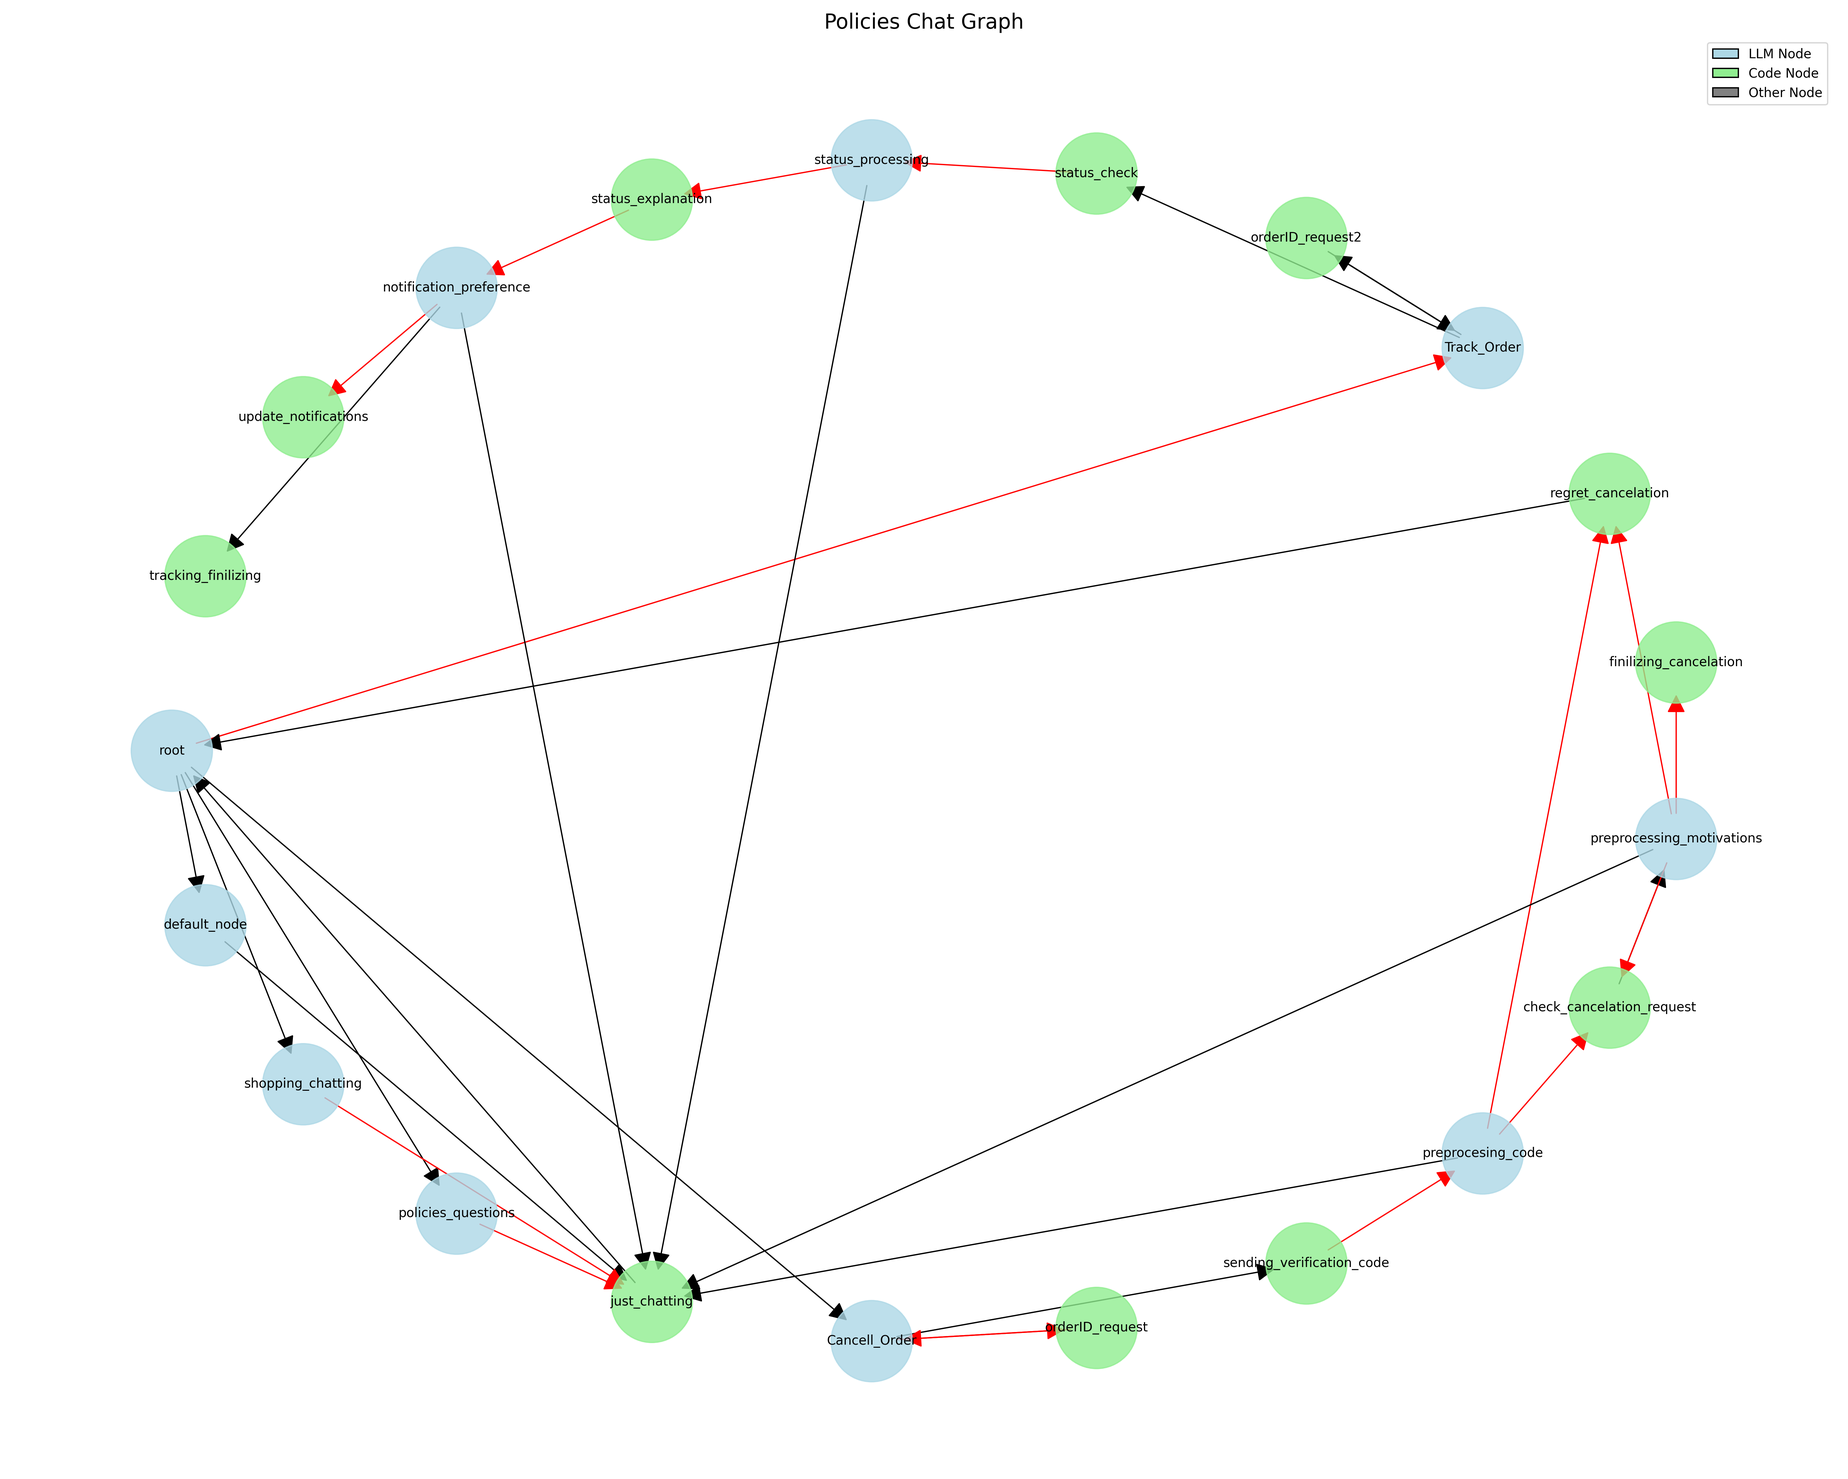
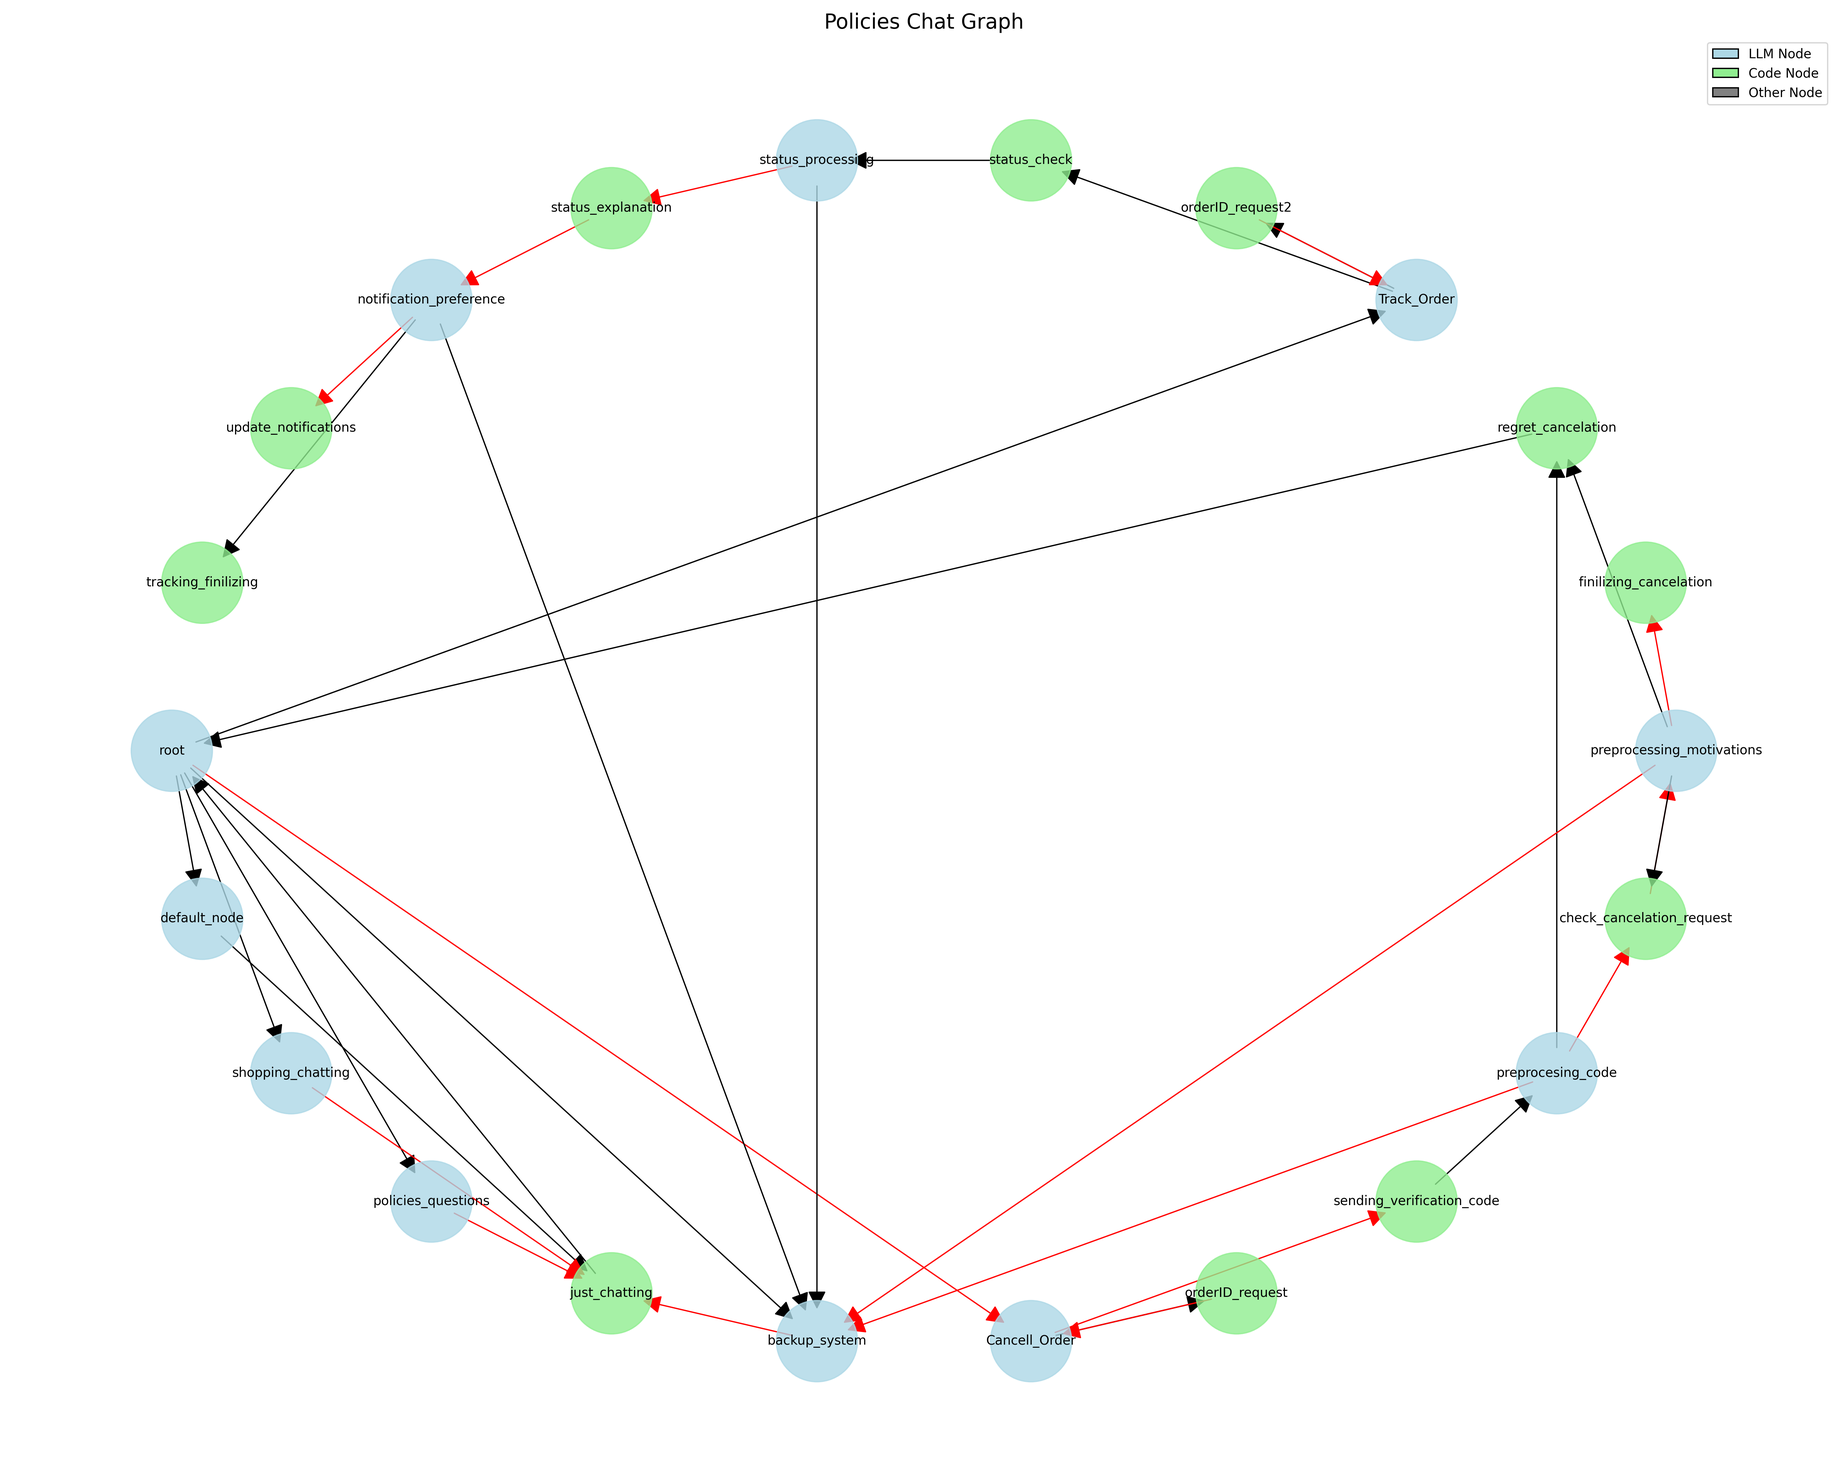
Make backup system most robust and general (restricting backup_system naming) and just chatting loops improvements

diff --git a/services/chat/policies_chat.py b/services/chat/policies_chat.py
@@ -38,13 +38,36 @@ default_parameters = {"user_message": {
                       }}
 
 default_node = LLM_Node(name="default_node", 
-                     description="General purpose conversation handler for non-specific queries", 
+                     description="Conversation guide for unclear requests or off-topic queries", 
                      parameters=default_parameters,
-                     template= """Respond helpfully to the user's general query. Keep your response friendly, concise, and informative. If the query seems to be about products or company policies, indicate this might not be the most specific response path.
+                     template= """Handle this user request by determining the appropriate action:
 
-If the user seems frustrated, confused, or their request can't be addressed through normal pipelines, route them to the just_chatting node.
+USER MESSAGE: "{user_message}"
 
-User message: {user_message}""",
+GUIDELINES:
+1. COMPANY FOCUS: Our chat exists to assist with product information, order management, returns, cancellations, and company policies.
+
+2. DETERMINE REQUEST TYPE:
+   - If about products/orders → Suggest shopping_chatting node
+   - If about policies → Suggest policies_questions node
+   - If about order cancellation → Suggest Cancell_Order node
+   - If genuinely unclear → Ask clarifying questions about their needs related to our services
+
+3. OFF-TOPIC HANDLING:
+   - For completely unrelated topics, politely redirect to our purpose
+   - After 2+ attempts, suggest alternative contact methods:
+     * Customer Service: 1-800-555-1234
+     * Email: support@techstream.com
+     * Store Locator: www.techstream.com/stores
+
+4. RESPONSE STRUCTURE:
+   - Be friendly but focused
+   - Keep responses under 100 words
+   - Provide 1-2 concrete examples of how we can help
+   - For repeat unclear requests, gradually introduce alternative contact methods
+
+Your goal is to guide the conversation toward productive company-related topics without appearing dismissive.
+""",
                      model = "gpt-4.1")
 Chat_Bot_ToT.conect_node_to_node(from_name="root", to_Node=default_node)
 
@@ -54,18 +77,13 @@ shopping_chatting_node = LLM_Node(name="shopping_chatting",
                      parameters=default_parameters,
                      template= """Respond to the user's product or shopping-related query using retrieved product information. Provide specific details about:
 
-1. Product features, specifications, and availability
-2. Pricing information and current promotions
-3. Product comparisons when relevant
-4. Ordering assistance and recommendations
-
 If the user seems frustrated or their request cannot be properly addressed with product information alone, route them to the just_chatting node.
 
 You can't process sales, if user express interest on buying a product  induce they to visit web, shop or call.
 
 User message: {user_message}""",
                      model = "gpt-4.1",
-                     retriver=shop_rag.get_retriver())
+                     retriver=shop_rag.get_retriver(request_type="similarity",top_k=4, score_threshold=0.6))
 Chat_Bot_ToT.conect_node_to_node(from_name="root", to_Node=shopping_chatting_node)
 
 ###--- Node ---###
@@ -74,19 +92,13 @@ policies_questions_node = LLM_Node(name="policies_questions",
                      parameters=default_parameters,
                      template= """Respond to the user's query about company policies using retrieved policy information. Address questions regarding:
 
-1. Return and exchange policies
-2. Shipping and delivery information
-3. Warranty and guarantee details
-4. Payment and pricing policies
-5. Customer account management
-
 Provide clear, accurate information based on official company policies. If the policy information is ambiguous or the user request falls outside standard policies, indicate this.
 
-If the user seems frustrated, confused, or their request requires special handling beyond standard policy responses, route them to the just_chatting node.
+If the user seems frustrated, confused, or their request requires special handling beyond standard policy responses, advice him to contact the call center and/or visit the store.
 
 User message: {user_message}""",
                      model = "gpt-4.1",
-                     retriver=policy_rag.get_retriver())
+                     retriver=policy_rag.get_retriver(request_type="similarity",top_k=3, score_threshold=0.6))
 Chat_Bot_ToT.conect_node_to_node(from_name="root", to_Node=policies_questions_node)
 
 ###--- Node ---###
@@ -97,18 +109,12 @@ just_chatting_parameters = {"user_message": {
                           "system_message": {
                           "type": "string",
                           "description": "chat bot message or error handling response"
-                        },
-                          "route_info": {
-                          "type": "string",
-                          "description": """information about which pipeline routed to this node and why as:
-                          error: cannot process, error, failed, unable to complete, technical difficulty, system error
-                          special request: speak to human, customer service, representative, this is not working, frustrated, annoying""",
                         }} 
 
 just_chatting_node = Code_Node(name="just_chatting",
-                              description="Flexible conversation handler and system recovery node for special cases",
+                              description="Flexible conversation handler",
                               parameters=just_chatting_parameters,
-                              function=chat_flexible_handler,
+                              function=just_chatting_handler,
                               is_interactive=True)
 
 Chat_Bot_ToT.conect_node_to_node(from_name="default_node", to_Node=just_chatting_node)
@@ -116,6 +122,53 @@ Chat_Bot_ToT.conect_node_to_node(from_name="shopping_chatting", to_Node=just_cha
 Chat_Bot_ToT.conect_node_to_node(from_name="policies_questions", to_Node=just_chatting_node)
 
 Chat_Bot_ToT.conect_node_to_node(from_name="just_chatting", to_Node=root)
+
+###--- Node ---###
+backup_parameters = {
+    "user_message": {
+        "type": "string",
+        "description": "The most recent message sent by the user"
+    },
+    "route_info": {
+        "type": "string",
+        "description": "Information about which pipeline routed to this node, including error details or special handling requirements"
+    },
+    "error_type": {
+        "type": "string",
+        "description": "Classification of error or special request type if identified",
+        "default": "unspecified"
+    }
+}
+
+backup_node = LLM_Node(name="backup_system", 
+                     description="Emergency response system for handling exceptions, errors, and special user situations", 
+                     parameters=backup_parameters,
+                     template= """You are an advanced exception handling specialist focused on resolving user issues when normal conversation flows break down. Your purpose is to:
+
+1. Diagnose the issue based on route information and conversation history
+2. Provide a helpful, empathetic response that addresses the user's immediate concerns
+3. Route the conversation appropriately - either back to a functional pipeline or to human assistance when necessary
+
+CURRENT SITUATION:
+- User message: "{user_message}"
+- Pipeline information: {route_info}
+- Error type (if identified): {error_type}
+
+RESPONSE GUIDELINES:
+- If the user is expressing frustration: Acknowledge their feelings, apologize sincerely, and offer a clear path forward
+- If a technical error occurred: Explain briefly what went wrong without technical jargon and suggest an alternative approach
+- If the user requests human assistance: Confirm this request and explain the next steps to connect with customer service
+- If the user is stuck in a loop: Help them break out by suggesting a different approach or topic
+- If the user wants to cancel or undo a process: Provide clear instructions on how to do so
+
+Always maintain a helpful, professional tone while acknowledging any difficulties the user has experienced. Prioritize solving their immediate problem rather than defending system limitations.
+
+IMPORTANT: Include a recommendation for how the system should proceed (return to main conversation, escalate to human support, or attempt a specific pipeline again).
+""",
+                     model = "gpt-4.1",
+                     retriver=policy_rag.get_retriver(request_type="mmr", top_k=2,lambda_mult=0.5))
+Chat_Bot_ToT.conect_node_to_node(from_name="root", to_Node=backup_node)
+Chat_Bot_ToT.conect_node_to_node(from_name="backup_system", to_Node=just_chatting_node)
 
 ### Cancel Order Pipeline ###
 
@@ -125,7 +178,6 @@ cancel_node = LLM_Node(name="Cancell_Order",
                      parameters=cancel_parameters,
                      template= cancel_node_template,
                      model = "gpt-4.1")
-                     #retriver=policy_rag.get_retriver(request_type="mmr", filter_key="Cancelation process",top_k=2, lambda_mult=0.8))
 Chat_Bot_ToT.conect_node_to_node(from_name="root", to_Node=cancel_node)
 
 ###--- Node ---###
@@ -152,7 +204,7 @@ preprocesing_code_node = LLM_Node(name="preprocesing_code",
                      template=preprocesing_code_node_template,
                      model = "gpt-4.1")
 Chat_Bot_ToT.conect_node_to_node(from_name="sending_verification_code", to_Node=preprocesing_code_node)
-Chat_Bot_ToT.conect_node_to_node(from_name="preprocesing_code", to_Node=just_chatting_node)
+Chat_Bot_ToT.conect_node_to_node(from_name="preprocesing_code", to_Node=backup_node)
 
 ###--- Node ---###
 check_verification_node = Code_Node(name="check_cancelation_request",
@@ -168,10 +220,10 @@ preprocessing_motivations_node = LLM_Node(name="preprocessing_motivations",
                      parameters=preprocessing_motivations_parameters,
                      template= preprocessing_motivations_node_template,
                      model = "gpt-4.1",
-                     retriver=policy_rag.get_retriver())
+                     retriver=policy_rag.get_retriver(request_type="mmr", filter_key="Cancelation process",top_k=2, lambda_mult=0.8))
 Chat_Bot_ToT.conect_node_to_node(from_name="check_cancelation_request", to_Node=preprocessing_motivations_node)
 Chat_Bot_ToT.conect_node_to_node(from_name="preprocessing_motivations", to_Node=check_verification_node)
-Chat_Bot_ToT.conect_node_to_node(from_name="preprocessing_motivations", to_Node=just_chatting_node)
+Chat_Bot_ToT.conect_node_to_node(from_name="preprocessing_motivations", to_Node=backup_node)
 
 ###--- Node ---### ## Output Node
 finilizing_cancelation_node = Code_Node(name="finilizing_cancelation",
@@ -223,7 +275,7 @@ status_processing_node = LLM_Node(name="status_processing",
                      template=status_processing_template,
                      model = "gpt-4.1")
 Chat_Bot_ToT.conect_node_to_node(from_name="status_check", to_Node=status_processing_node)
-Chat_Bot_ToT.conect_node_to_node(from_name="status_processing", to_Node=just_chatting_node)
+Chat_Bot_ToT.conect_node_to_node(from_name="status_processing", to_Node=backup_node)
 
 ###--- Node ---###
 status_explanation_node = Code_Node(name="status_explanation",
@@ -239,9 +291,9 @@ notification_preference_node = LLM_Node(name="notification_preference",
                      parameters=notification_preference_parameters,
                      template=notification_preference_template,
                      model = "gpt-4.1",
-                     retriver=policy_rag.get_retriver())
+                     retriver=policy_rag.get_retriver(request_type="mmr", filter_key="Tracking",top_k=2, lambda_mult=0.8))
 Chat_Bot_ToT.conect_node_to_node(from_name="status_explanation", to_Node=notification_preference_node)
-Chat_Bot_ToT.conect_node_to_node(from_name="notification_preference", to_Node=just_chatting_node)
+Chat_Bot_ToT.conect_node_to_node(from_name="notification_preference", to_Node=backup_node)
 
 ###--- Node ---### ## Output Node
 update_notifications_node = Code_Node(name="update_notifications",

diff --git a/services/chat/chat_ToT.py b/services/chat/chat_ToT.py
@@ -83,6 +83,22 @@ class Node():
 class LLM_Node(Node):
     def __init__(self,name, description, parameters, template, model:str, required=[], retriver=None):
         super().__init__(name, description, parameters, required)
+
+        if name == "backup_system":
+            # Check for exact keys
+            valid_backup_system = True
+            required_keys = {"user_message", "route_info", "error_type"}
+            if set(parameters.keys()) != required_keys:
+                valid_backup_system= False
+            
+            # Check types
+            valid_backup_system= (parameters["user_message"]["type"] == "string" and 
+                    parameters["route_info"]["type"] == "string" and 
+                    parameters["error_type"]["type"] == "string")
+            
+            if not valid_backup_system:
+                raise ValueError("A backup_system node must have only 'user_message', 'route_info', 'error_type' keys (strings)")
+
         self.template = template
         self.__model = model
         self.retriver = retriver
@@ -146,6 +162,10 @@ class LLM_Node(Node):
 class Code_Node(Node):
     def __init__(self,name, description, parameters, function:callable, required=[], is_interactive=False):
         super().__init__(name, description, parameters, required)
+
+        if name == "backup_system":
+            raise ValueError("backup_system node must be a LLM_Node. Review Documentation")
+
         self.core_function = function
         self.is_interactive_node = is_interactive
     def call(self, arg, history, trase=True, sys_callback = {}):
@@ -221,8 +241,15 @@ class ChatToT():
                     if retry_count >= max_retries:
                         print(f"Maximum retries reached for node {current_node_name}")
                         
+                        # Call backup_system node if system has one
+                        if "backup_system" in self.__graph.keys():
+                            current_node_name = "backup_system"
+                            arg = {
+                                "user_message":  str(arg),
+                                "route_info":  f"Error in node {current_node_name}: {self.__graph[current_node_name]["node"].corpus["function"]["description"]}",
+                                "error_type": str(e)}
                         # Go back one step in the execution path if possible
-                        if len(execution_path) > 1:
+                        elif len(execution_path) > 1:
                             execution_path.pop()  # Remove current failed node
                             current_node_name = execution_path[-1]  # Go back to previous node
                             print(f"Retrying from previous node: {current_node_name}")
@@ -332,24 +359,3 @@ class ChatToT():
             plt.tight_layout()
             
             return fig
-
-
-# state_0 Analysing request (Consistency supported) -> [0_1, N and RAG]
-
-# state_0_1 requesting user relevant data -> [0]
-
-# state_N requesting API relevant data -> [N_1]
-"""
-1: Cancel Order
-2: Track Order
-3: Backup quest
-"""
-
-# state_RAG  
-"""Retrive Augment Generation"""
-
-# state_reponse
-
-
-
-

diff --git a/services/chat/node_utils.py b/services/chat/node_utils.py
@@ -61,46 +61,8 @@ def chat_tracking_info(arg, childs_tools, trase=True):
     # Implementation would analyze the message and return appropriate tracking details
     return childs_tools[0]["function"]["name"], arg["system_message"], get_order_details(arg["order_id"])
 
-def chat_flexible_handler(arg, childs_tools, trase=True):
+def just_chatting_handler(arg, childs_tools, trase=True):
     """
-    Handles flexible conversation scenarios including:
-    1. Normal conversation continuation
-    2. Error recovery from other pipelines
-    3. Special request handling
-    4. System reset when needed
+    Handles just chatting loop
     """
-    user_message = arg.get("user_message", "")
-    system_message = arg.get("system_message", "")
-    route_info = arg.get("route_info", "default")
-    
-    # Error detection keywords
-    error_indicators = ["cannot process", "error", "failed", "unable to complete", 
-                        "technical difficulty", "system error"]
-    
-    # Check if coming from error condition
-    is_error_recovery = any(indicator in system_message.lower() for indicator in error_indicators)
-    
-    # Check for special requests or frustration indicators
-    special_request_indicators = ["speak to human", "customer service", "representative", 
-                                 "this is not working", "frustrated", "annoying"]
-    needs_special_handling = any(indicator in user_message.lower() for indicator in special_request_indicators)
-    
-    # Determine appropriate response
-    if is_error_recovery:
-        response = {
-            "system_message": "I apologize for the difficulty. Let's start over. How can I assist you today?",
-            "reset_to_root": True
-        }
-    elif needs_special_handling:
-        response = {
-            "system_message": "I understand this may be frustrating. Would you like me to connect you with customer service? In the meantime, I'm happy to try addressing your concerns differently.",
-            "reset_to_root": False
-        }
-    else:
-        # Normal conversation flow
-        response = {
-            "system_message": system_message,
-            "reset_to_root": False
-        }
-    
-    return childs_tools[0]["function"]["name"], response["system_message"], response
+    return childs_tools[0]["function"]["name"], arg["system_message"], {}
